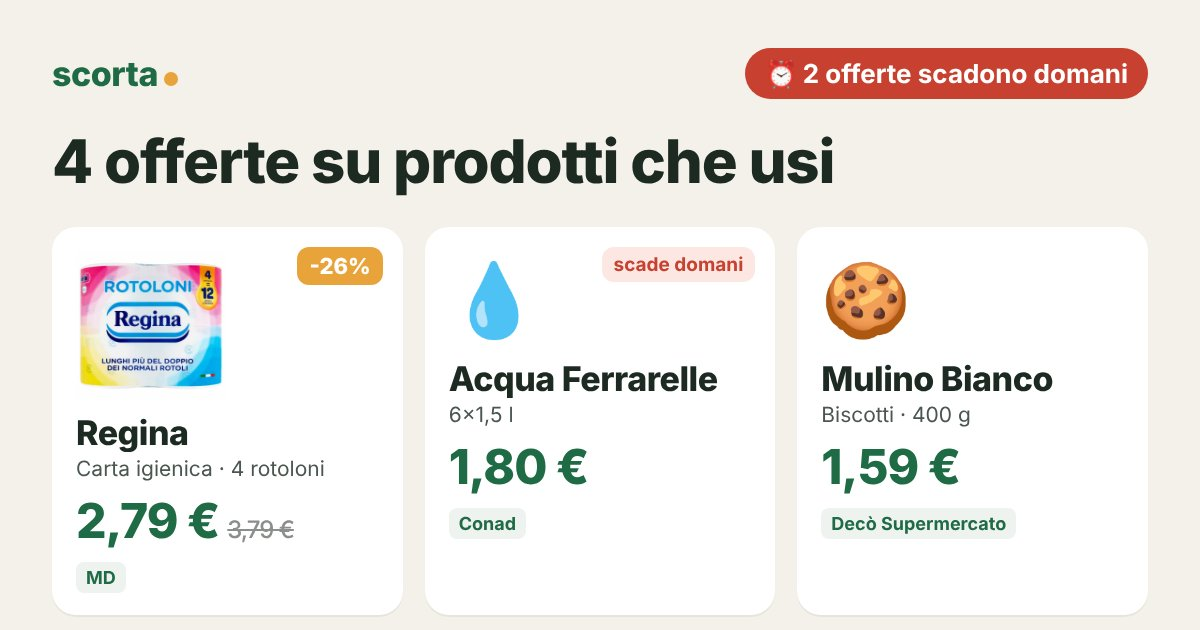
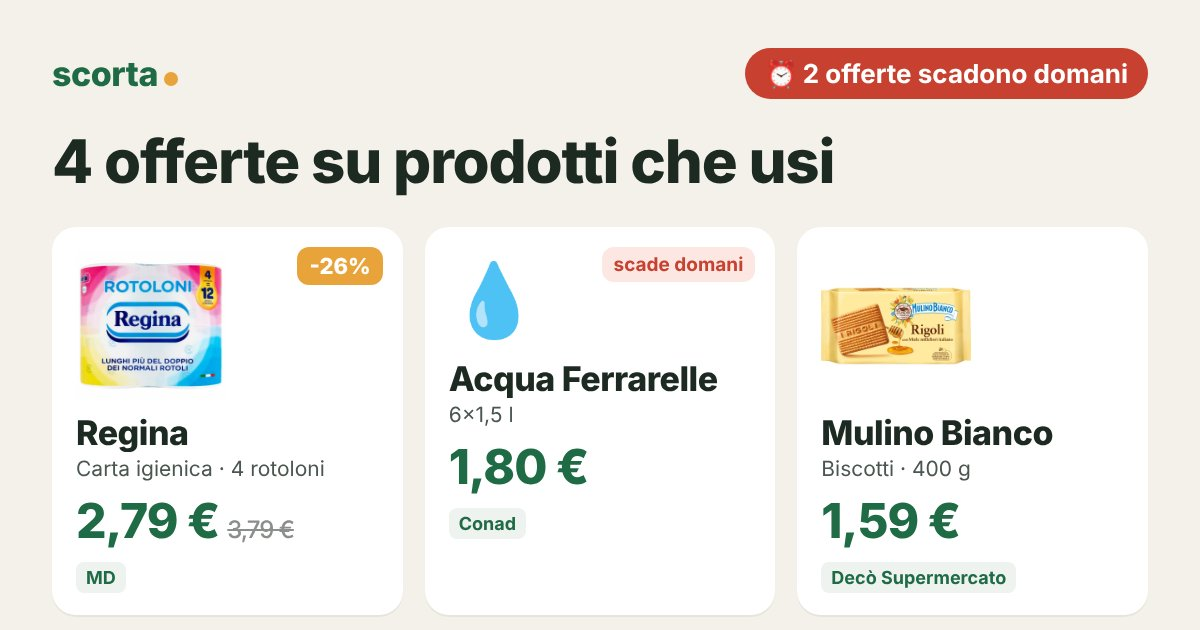
Pagine offerte 2026-10-31
Claude-Session: https://claude.ai/code/session_012BnByD7nnfoHswjF7TKs2L

Changed region(s): [[0.6783, 0.3921, 0.8942, 0.8746], [0.6783, 0.9048, 0.8633, 0.9349]]

diff --git a/o/31ed0d9c/index.html b/o/31ed0d9c/index.html
@@ -6,4 +6,4 @@
 <style>body{margin:0;font-family:-apple-system,system-ui,sans-serif;background:#F4F1EA;color:#1d2a22}main{max-width:560px;margin:auto;padding:16px}img{width:100%;border-radius:14px}
 ul{list-style:none;padding:0}li{display:flex;gap:10px;align-items:center;background:#fff;border-radius:12px;padding:10px 12px;margin:8px 0}.ic{font-size:26px}.th{width:44px;height:44px;object-fit:contain;background:#fff}li div:nth-child(2){flex:1}small{color:#6b746e}.pr{text-align:right;white-space:nowrap}s{color:#8a8f8b;font-size:13px}
 .btn{display:block;text-align:center;background:#1f6b45;color:#fff;font-weight:700;font-size:18px;padding:16px;border-radius:14px;text-decoration:none;margin:18px 0}.map{display:block;color:#1f6b45;margin:6px 0;text-decoration:none}</style></head>
-<body><main><img src="card.jpg" alt=""><a class="btn" href="https://tally.so/r/OQQV7k?f=F008&amp;a=A050,A051,A052,A053">✅ Segna cosa hai comprato</a><ul><li><img class=th src=../../img/L189.jpg><div><b>Regina 4 rotoloni carta igienica</b><br><small>MD · scade domani</small></div><div class="pr"><s>3,79 €</s> <b>2,79 €</b></div></li><li><span class=ic>💧</span><div><b>Ferrarelle acqua effervescente naturale 6x1,5 l</b><br><small>Conad · scade domani</small></div><div class="pr"><b>1,80 €</b></div></li><li><span class=ic>🍪</span><div><b>Mulino Bianco biscotti classici Rigoli 400 g</b><br><small>Decò Supermercato · fino al 2/11</small></div><div class="pr"><b>1,59 €</b></div></li><li><span class=ic>🍞</span><div><b>Mulino Bianco fette biscottate dorate 630 g</b><br><small>Decò Supermercato · fino al 2/11</small></div><div class="pr"><b>1,79 €</b></div></li></ul><a class="map" href="https://www.google.com/maps/search/?api=1&query=MD%20C.SO%20ITALIA%2055%20Marano%20di%20Napoli">📍 MD · C.SO ITALIA 55, Marano di Napoli</a><a class="map" href="https://www.google.com/maps/search/?api=1&query=Conad%20Via%20Della%20Repubblica%20122%20Calvizzano">📍 Conad · Via Della Repubblica 122, Calvizzano</a><a class="map" href="https://www.google.com/maps/search/?api=1&query=Dec%C3%B2%20Supermercato%20Via%20Ernesto%20Che%20Guevara%2C%2036%20Marano%20di%20Napoli">📍 Decò Supermercato · Via Ernesto Che Guevara, 36, Marano di Napoli</a><p><small>Prezzi e scadenze dai volantini delle insegne. Rispondi STOP su WhatsApp per non ricevere più avvisi.</small></p></main></body></html>
+<body><main><img src="card.jpg" alt=""><a class="btn" href="https://tally.so/r/OQQV7k?f=F008&amp;a=A050,A051,A052,A053">✅ Segna cosa hai comprato</a><ul><li><img class=th src=../../img/L189.jpg><div><b>Regina 4 rotoloni carta igienica</b><br><small>MD · scade domani</small></div><div class="pr"><s>3,79 €</s> <b>2,79 €</b></div></li><li><span class=ic>💧</span><div><b>Ferrarelle acqua effervescente naturale 6x1,5 l</b><br><small>Conad · scade domani</small></div><div class="pr"><b>1,80 €</b></div></li><li><img class=th src=../../img/deco_74M07885P189_301.jpg><div><b>Mulino Bianco biscotti classici Rigoli 400 g</b><br><small>Decò Supermercato · fino al 2/11</small></div><div class="pr"><b>1,59 €</b></div></li><li><img class=th src=../../img/deco_74M07885P028_301.jpg><div><b>Mulino Bianco fette biscottate dorate 630 g</b><br><small>Decò Supermercato · fino al 2/11</small></div><div class="pr"><b>1,79 €</b></div></li></ul><a class="map" href="https://www.google.com/maps/search/?api=1&query=MD%20C.SO%20ITALIA%2055%20Marano%20di%20Napoli">📍 MD · C.SO ITALIA 55, Marano di Napoli</a><a class="map" href="https://www.google.com/maps/search/?api=1&query=Conad%20Via%20Della%20Repubblica%20122%20Calvizzano">📍 Conad · Via Della Repubblica 122, Calvizzano</a><a class="map" href="https://www.google.com/maps/search/?api=1&query=Dec%C3%B2%20Supermercato%20Via%20Ernesto%20Che%20Guevara%2C%2036%20Marano%20di%20Napoli">📍 Decò Supermercato · Via Ernesto Che Guevara, 36, Marano di Napoli</a><p><small>Prezzi e scadenze dai volantini delle insegne. Rispondi STOP su WhatsApp per non ricevere più avvisi.</small></p></main></body></html>

diff --git a/o/5cffcb88/index.html b/o/5cffcb88/index.html
@@ -6,4 +6,4 @@
 <style>body{margin:0;font-family:-apple-system,system-ui,sans-serif;background:#F4F1EA;color:#1d2a22}main{max-width:560px;margin:auto;padding:16px}img{width:100%;border-radius:14px}
 ul{list-style:none;padding:0}li{display:flex;gap:10px;align-items:center;background:#fff;border-radius:12px;padding:10px 12px;margin:8px 0}.ic{font-size:26px}.th{width:44px;height:44px;object-fit:contain;background:#fff}li div:nth-child(2){flex:1}small{color:#6b746e}.pr{text-align:right;white-space:nowrap}s{color:#8a8f8b;font-size:13px}
 .btn{display:block;text-align:center;background:#1f6b45;color:#fff;font-weight:700;font-size:18px;padding:16px;border-radius:14px;text-decoration:none;margin:18px 0}.map{display:block;color:#1f6b45;margin:6px 0;text-decoration:none}</style></head>
-<body><main><img src="card.jpg" alt=""><a class="btn" href="https://tally.so/r/OQQV7k?f=F002&amp;a=A036,A037,A038">✅ Segna cosa hai comprato</a><ul><li><span class=ic>🐟</span><div><b>Rio Mare tonno all&#x27;olio di oliva Filo d&#x27;Olio 4x65 g</b><br><small>Conad City · scade domani</small></div><div class="pr"><b>4,95 €</b></div></li><li><span class=ic>🧻</span><div><b>Scottex Scottonelle carta igienica 12 rotoli</b><br><small>Eté · fino al 2/11</small></div><div class="pr"><b>3,69 €</b></div></li><li><span class=ic>🧽</span><div><b>Amuchina pavimenti varie profumazioni 1,25 l</b><br><small>Eté · fino al 2/11</small></div><div class="pr"><b>1,89 €</b></div></li></ul><a class="map" href="https://www.google.com/maps/search/?api=1&query=Conad%20City%20Via%20Publio%20Virgilio%20Marone%208/10%20Poggiomarino">📍 Conad City · Via Publio Virgilio Marone 8/10, Poggiomarino</a><a class="map" href="https://www.google.com/maps/search/?api=1&query=Et%C3%A9%20Via%20G.%20Iervolino%2C%2080%20Poggiomarino">📍 Eté · Via G. Iervolino, 80, Poggiomarino</a><p><small>Prezzi e scadenze dai volantini delle insegne. Rispondi STOP su WhatsApp per non ricevere più avvisi.</small></p></main></body></html>
+<body><main><img src="card.jpg" alt=""><a class="btn" href="https://tally.so/r/OQQV7k?f=F002&amp;a=A036,A037,A038">✅ Segna cosa hai comprato</a><ul><li><span class=ic>🐟</span><div><b>Rio Mare tonno all&#x27;olio di oliva Filo d&#x27;Olio 4x65 g</b><br><small>Conad City · scade domani</small></div><div class="pr"><b>4,95 €</b></div></li><li><img class=th src=../../img/deco_74M07885P293_301.jpg><div><b>Scottex Scottonelle carta igienica 12 rotoli</b><br><small>Eté · fino al 2/11</small></div><div class="pr"><b>3,69 €</b></div></li><li><span class=ic>🧽</span><div><b>Amuchina pavimenti varie profumazioni 1,25 l</b><br><small>Eté · fino al 2/11</small></div><div class="pr"><b>1,89 €</b></div></li></ul><a class="map" href="https://www.google.com/maps/search/?api=1&query=Conad%20City%20Via%20Publio%20Virgilio%20Marone%208/10%20Poggiomarino">📍 Conad City · Via Publio Virgilio Marone 8/10, Poggiomarino</a><a class="map" href="https://www.google.com/maps/search/?api=1&query=Et%C3%A9%20Via%20G.%20Iervolino%2C%2080%20Poggiomarino">📍 Eté · Via G. Iervolino, 80, Poggiomarino</a><p><small>Prezzi e scadenze dai volantini delle insegne. Rispondi STOP su WhatsApp per non ricevere più avvisi.</small></p></main></body></html>
